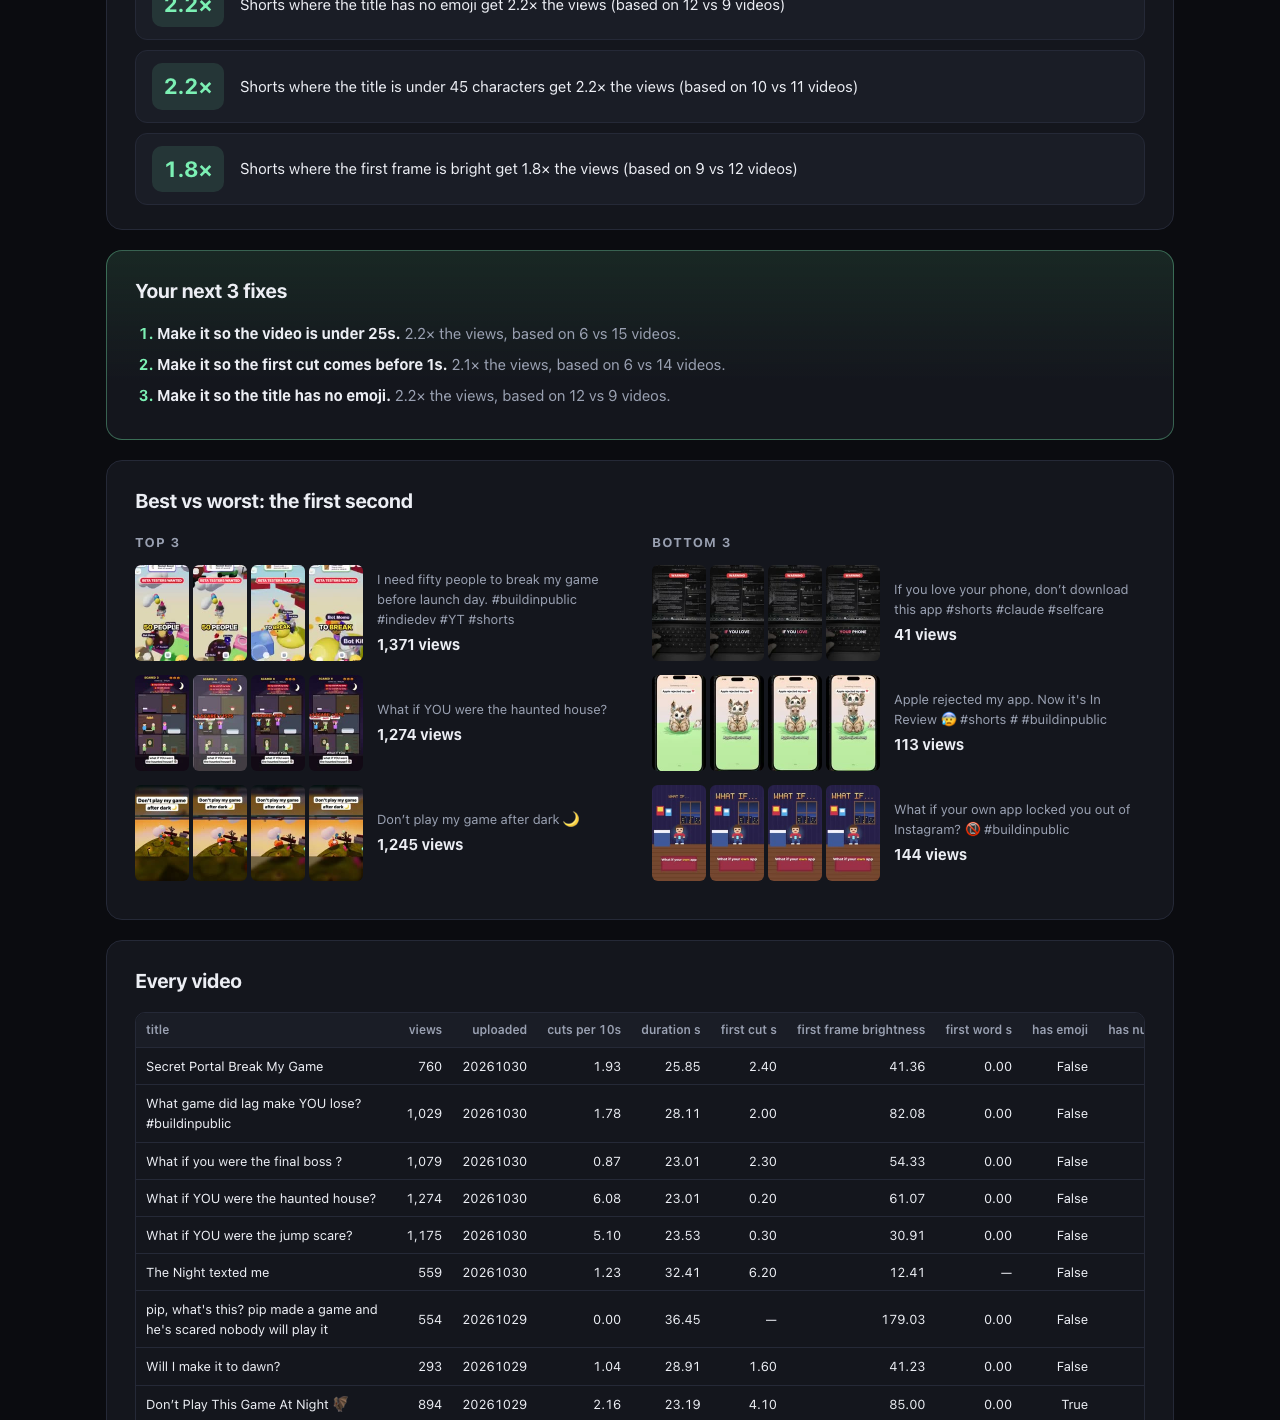
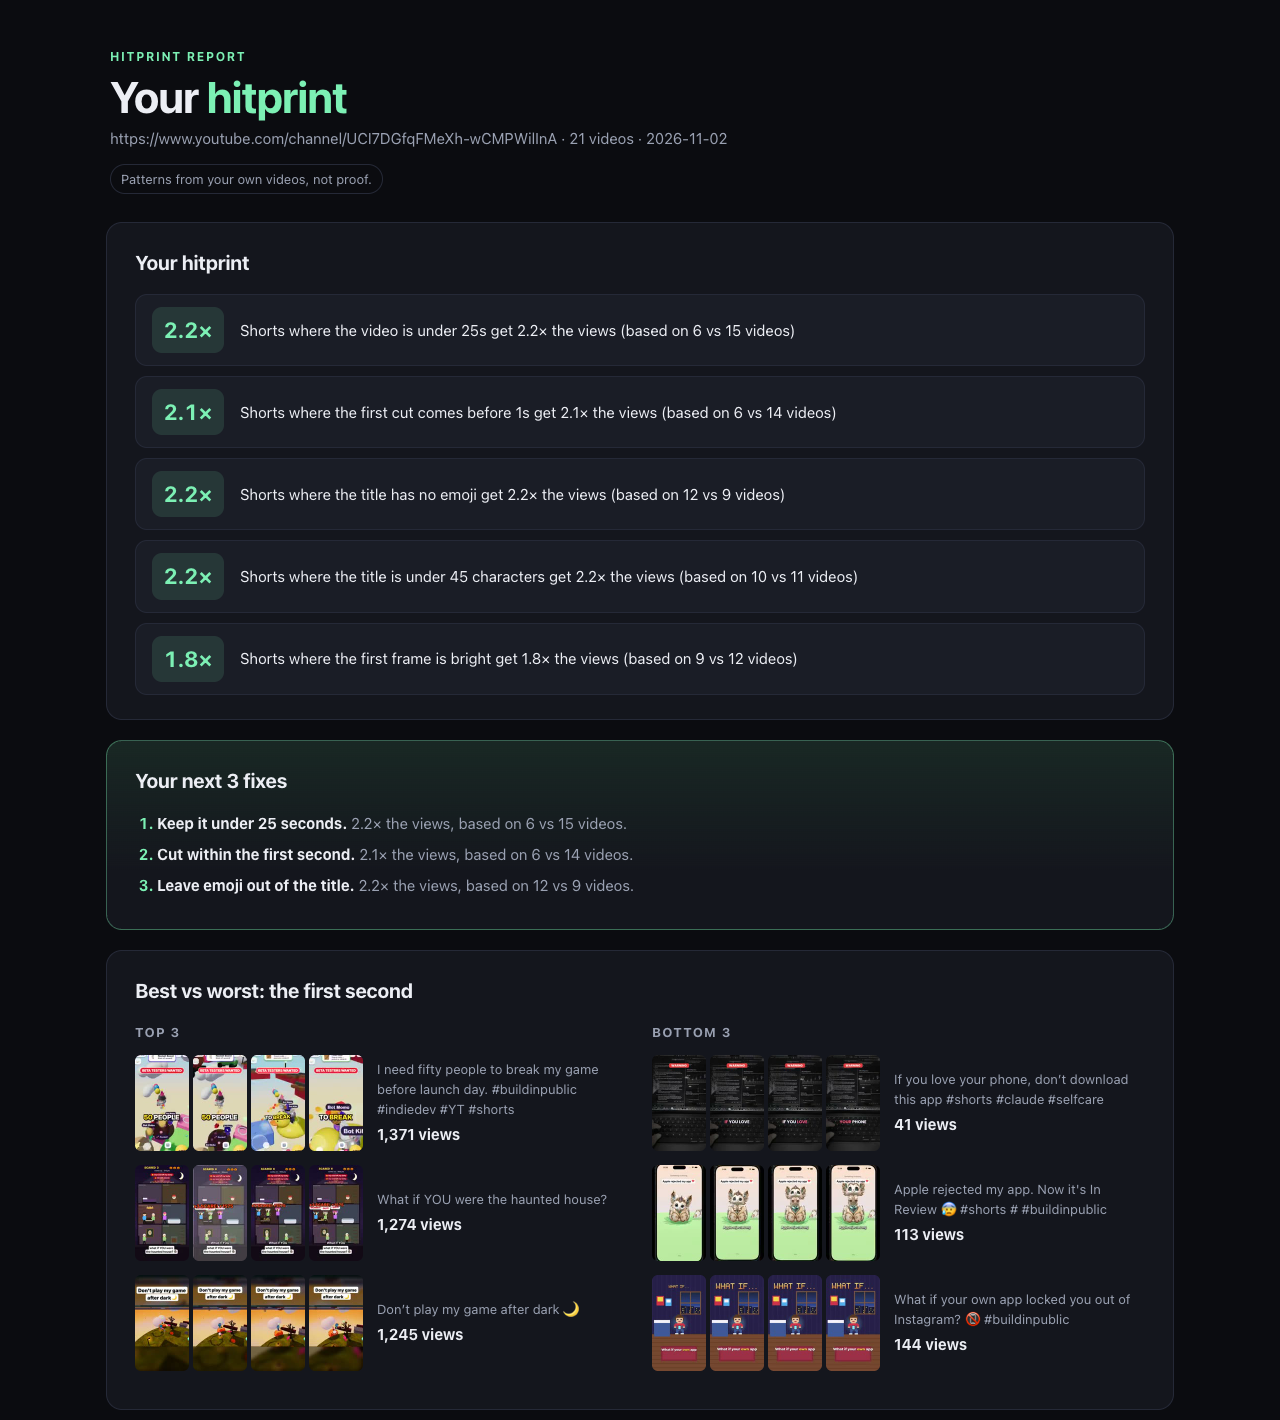
fix: write fixes as direct advice instead of "Make it so ..."
Each rule now carries an advice line ("Keep it under 25 seconds", "Cut within
the first second", "Leave emoji out of the title") used by the report, the CLI
and my-formula.md. docs/report.png is now the top of a fresh report.

diff --git a/hitprint/analyze.py b/hitprint/analyze.py
@@ -7,23 +7,36 @@ from statistics import median
 
 from .models import Rule, Video
 
-# feature -> (test that puts a value in the "yes" group, yes label, no label)
+# feature -> (test that puts a value in the "yes" group, yes label, no label, yes advice, no advice)
 NUMERIC = {
-    "first_cut_s": (lambda x: x < 1.0, "the first cut comes before 1s", "the first cut comes at 1s or later"),
-    "first_word_s": (lambda x: x < 0.5, "the first word comes before 0.5s", "the first word comes at 0.5s or later"),
-    "longest_shot_s": (lambda x: x < 4.0, "no shot lasts 4s or longer", "a shot lasts 4s or longer"),
-    "cuts_per_10s": (lambda x: x >= 3, "there are 3+ cuts per 10s", "there are fewer than 3 cuts per 10s"),
-    "duration_s": (lambda x: x < 25, "the video is under 25s", "the video is 25s or longer"),
-    "title_len": (lambda x: x < 45, "the title is under 45 characters", "the title is 45 characters or longer"),
-    "first_frame_brightness": (lambda x: x >= 80, "the first frame is bright", "the first frame is dark"),
-    "loop_diff": (lambda x: x < 20, "the last frame matches the first (loops)", "the last frame doesn't match the first"),
-    "lufs": (lambda x: -16 <= x <= -12, "loudness is between -16 and -12 LUFS", "loudness is outside -16 to -12 LUFS"),
+    "first_cut_s": (lambda x: x < 1.0, "the first cut comes before 1s", "the first cut comes at 1s or later",
+                    "Cut within the first second", "Hold the first shot for at least a second"),
+    "first_word_s": (lambda x: x < 0.5, "the first word comes before 0.5s", "the first word comes at 0.5s or later",
+                     "Start talking within half a second", "Wait at least half a second before the first word"),
+    "longest_shot_s": (lambda x: x < 4.0, "no shot lasts 4s or longer", "a shot lasts 4s or longer",
+                       "Keep every shot under 4 seconds", "Let at least one shot run 4 seconds or longer"),
+    "cuts_per_10s": (lambda x: x >= 3, "there are 3+ cuts per 10s", "there are fewer than 3 cuts per 10s",
+                     "Cut at least 3 times every 10 seconds", "Cut fewer than 3 times every 10 seconds"),
+    "duration_s": (lambda x: x < 25, "the video is under 25s", "the video is 25s or longer",
+                   "Keep it under 25 seconds", "Let it run 25 seconds or longer"),
+    "title_len": (lambda x: x < 45, "the title is under 45 characters", "the title is 45 characters or longer",
+                  "Keep the title under 45 characters", "Write a title of 45 characters or more"),
+    "first_frame_brightness": (lambda x: x >= 80, "the first frame is bright", "the first frame is dark",
+                               "Open on a bright frame", "Open on a dark frame"),
+    "loop_diff": (lambda x: x < 20, "the last frame matches the first (loops)", "the last frame doesn't match the first",
+                  "End on the same frame you open on, so it loops", "End on a different frame from the one you open on"),
+    "lufs": (lambda x: -16 <= x <= -12, "loudness is between -16 and -12 LUFS", "loudness is outside -16 to -12 LUFS",
+             "Mix the audio to between -16 and -12 LUFS", "Mix the audio outside -16 to -12 LUFS"),
 }
 BOOLEAN = {
-    "has_you": ("the title says \"you\"", "the title doesn't say \"you\""),
-    "is_question": ("the title is a question", "the title isn't a question"),
-    "has_number": ("the title has a number", "the title has no number"),
-    "has_emoji": ("the title has an emoji", "the title has no emoji"),
+    "has_you": ("the title says \"you\"", "the title doesn't say \"you\"",
+                "Say \"you\" in the title", "Leave \"you\" out of the title"),
+    "is_question": ("the title is a question", "the title isn't a question",
+                    "Phrase the title as a question", "Don't phrase the title as a question"),
+    "has_number": ("the title has a number", "the title has no number",
+                   "Put a number in the title", "Leave numbers out of the title"),
+    "has_emoji": ("the title has an emoji", "the title has no emoji",
+                  "Add an emoji to the title", "Leave emoji out of the title"),
 }
 SCORE_NAME = {"views": "views", "stayed_pct": "stayed-to-watch"}
 N_BOOT = 1000
@@ -37,30 +50,32 @@ def _weekday(v: Video):
 
 
 def _splits(videos: list[Video]):
-    """Yield (feature, yes label, no label, fixable, video -> True/False/None)."""
-    for name, (test, yes, no) in NUMERIC.items():
-        yield name, yes, no, True, (
+    """Yield (feature, (yes label, yes advice), (no label, no advice), fixable, video -> True/False/None)."""
+    for name, (test, yes, no, do_yes, do_no) in NUMERIC.items():
+        yield name, (yes, do_yes), (no, do_no), True, (
             lambda v, n=name, t=test: None if v.features.get(n) is None else t(v.features[n]))
-    for name, (yes, no) in BOOLEAN.items():
-        yield name, yes, no, True, (
+    for name, (yes, no, do_yes, do_no) in BOOLEAN.items():
+        yield name, (yes, do_yes), (no, do_no), True, (
             lambda v, n=name: None if v.features.get(n) is None else bool(v.features[n]))
 
     prefixes = Counter(v.features["series_prefix"] for v in videos if v.features.get("series_prefix"))
     if prefixes:
         top, count = prefixes.most_common(1)[0]
         if count >= 3:
-            yield ("series_prefix", f"the title starts with \"{top}\"",
-                   f"the title doesn't start with \"{top}\"", False,
+            yield ("series_prefix", (f"the title starts with \"{top}\"", f"Start the title with \"{top}\""),
+                   (f"the title doesn't start with \"{top}\"", f"Don't start the title with \"{top}\""), False,
                    lambda v: None if v.features.get("series_prefix") is None
                    else v.features["series_prefix"] == top)
 
     hours = [v.features["upload_hour"] for v in videos if v.features.get("upload_hour") is not None]
     if hours:
         h = median(hours)
-        yield ("upload_hour", f"it's posted before {h:g}:00", f"it's posted at {h:g}:00 or later", True,
+        yield ("upload_hour", (f"it's posted before {h:g}:00", f"Post before {h:g}:00"),
+               (f"it's posted at {h:g}:00 or later", f"Post at {h:g}:00 or later"), True,
                lambda v: None if v.features.get("upload_hour") is None else v.features["upload_hour"] < h)
 
-    yield "weekend", "it's posted on a weekend", "it's posted on a weekday", True, _weekday
+    yield ("weekend", ("it's posted on a weekend", "Post on a weekend"),
+           ("it's posted on a weekday", "Post on a weekday"), True, _weekday)
 
 
 def _confidence(better: list[float], worse: list[float], rng: random.Random) -> float:
@@ -91,10 +106,10 @@ def find_rules(videos: list[Video], score: str = "views", min_group: int = 5,
         ratio = med[b] / med[not b]
         if ratio < min_ratio:
             continue
-        label_b, label_w = (yes, no) if b else (no, yes)
+        (label_b, advice), (label_w, _) = (yes, no) if b else (no, yes)
         text = (f"Shorts where {label_b} get {ratio:.1f}× the {SCORE_NAME.get(score, score)} "
                 f"(based on {len(better)} vs {len(worse)} videos)")
         rules.append(Rule(feature, text, label_b, label_w, len(better), len(worse),
-                          med[b], med[not b], ratio, _confidence(better, worse, rng), fixable))
+                          med[b], med[not b], ratio, _confidence(better, worse, rng), fixable, advice))
     rules.sort(key=lambda r: math.log(r.ratio) * r.confidence, reverse=True)
     return rules

diff --git a/hitprint/report.py b/hitprint/report.py
@@ -67,7 +67,7 @@ def _html(videos: list[Video], rules: list[Rule], meta: dict) -> str:
         parts.append(f'<section><h2>Your hitprint</h2><ol class="rules">{items}</ol></section>')
         fixes = [r for r in rules if r.fixable][:3]
         items = "".join(
-            f"<li><strong>Make it so {escape(r.better)}.</strong> "
+            f"<li><strong>{escape(r.advice)}.</strong> "
             f'<span class="muted">{r.ratio:.1f}× the {escape(score)}, based on '
             f"{r.n_better} vs {r.n_worse} videos.</span></li>" for r in fixes)
         parts.append(f"<section class='fixes'><h2>Your next 3 fixes</h2><ol>{items or '<li>None of your patterns are things you can change.</li>'}</ol></section>")
@@ -100,7 +100,7 @@ def _formula(rules: list[Rule], meta: dict) -> str:
     if not rules:
         lines.append(NO_PATTERNS)
     for r in rules:
-        lines.append(f"- Make it so {r.better}. My videos like this get {r.ratio:.1f}× the "
+        lines.append(f"- {r.advice}. My videos like this get {r.ratio:.1f}× the "
                      f"{score} (based on {r.n_better} vs {r.n_worse} videos, "
                      f"{r.confidence:.0%} confidence).")
     lines += ["", NOT_PROOF, ""]

diff --git a/tests/test_report.py b/tests/test_report.py
@@ -14,7 +14,8 @@ def videos(n=12, path=None):
 
 def rule(feature="first_cut_s", fixable=True):
     return Rule(feature, f"Shorts where {feature} is good get 2.1× the views (based on 9 vs 14 videos)",
-                f"{feature} is good", f"{feature} is bad", 9, 14, 2100, 1000, 2.1, 0.97, fixable)
+                f"{feature} is good", f"{feature} is bad", 9, 14, 2100, 1000, 2.1, 0.97, fixable,
+                f"Make {feature} good")
 
 
 def test_outputs_written(tmp_path):
@@ -26,9 +27,10 @@ def test_outputs_written(tmp_path):
     html = out["report"].read_text()
     assert "Your hitprint" in html and "not proof" in html
     assert "Your next 3 fixes" in html and "based on 9 vs 14 videos" in html
+    assert "<strong>Make first_cut_s good.</strong>" in html and "Make it so" not in html
     assert "@cosipai" in html and "12 videos" in html
     md = out["formula"].read_text()
-    assert "first_cut_s is good" in md and "9 vs 14" in md
+    assert "- Make first_cut_s good. My videos" in md and "9 vs 14" in md and "Make it so" not in md
     data = json.loads(out["data"].read_text())
     assert len(data["videos"]) == 12 and data["rules"][0]["ratio"] == 2.1
 

diff --git a/tests/test_analyze.py b/tests/test_analyze.py
@@ -25,6 +25,7 @@ def test_rule_found():
     assert r.median_better == 1000 and r.median_worse == 300
     assert r.confidence == pytest.approx(1.0)
     assert r.fixable is True
+    assert r.advice == "Cut within the first second"
 
 
 def test_min_group():
@@ -68,7 +69,7 @@ def test_series_prefix_not_fixable():
               + [vid(10 + i, 200, series_prefix=f"other {i} x") for i in range(6)])
     (r,) = find_rules(videos)
     assert r.feature == "series_prefix" and r.fixable is False
-    assert "what if you" in r.text
+    assert "what if you" in r.text and r.advice == 'Start the title with "what if you"'
 
 
 def test_weekend_split():
@@ -77,6 +78,7 @@ def test_weekend_split():
               + [vid(10 + i, 250, date=tue) for i in range(6)])
     (r,) = find_rules(videos)
     assert r.feature == "weekend" and "weekend" in r.better and r.fixable
+    assert r.advice == "Post on a weekend"
 
 
 def test_sorted_by_effect_times_confidence():

diff --git a/tests/test_cli.py b/tests/test_cli.py
@@ -33,3 +33,15 @@ def test_studio_flag_switches_score(monkeypatch, tmp_path):
     assert cli.main(["@cosipai", "--studio", "s.csv", "--out", str(tmp_path), "--no-whisper"]) == 0
     assert calls["score"] == "stayed_pct"
     assert (tmp_path / "hitprint-report.html").exists()
+
+
+def test_next_fixes_printed_as_advice(monkeypatch, tmp_path, capsys):
+    from hitprint.models import Rule
+    fake_pipeline(monkeypatch, 12, {})
+    r = Rule("duration_s", "Shorts where the video is under 25s get 2.0× the views (based on 6 vs 6 videos)",
+             "the video is under 25s", "the video is 25s or longer", 6, 6, 1000, 500, 2.0, 0.9, True,
+             "Keep it under 25 seconds")
+    monkeypatch.setattr(cli, "find_rules", lambda videos, score="views": [r])
+    assert cli.main(["@cosipai", "--out", str(tmp_path), "--no-whisper"]) == 0
+    out = capsys.readouterr().out
+    assert "- Keep it under 25 seconds.\n" in out and "Make it so" not in out

diff --git a/hitprint/cli.py b/hitprint/cli.py
@@ -98,7 +98,7 @@ def main(argv: list[str] | None = None) -> int:
     if fixes:
         print("Next fixes:")
         for r in fixes:
-            print(f"- Make it so {r.better}.")
+            print(f"- {r.advice}.")
     for name, path in paths.items():
         print(f"{name}: {path.resolve()}")
     if a.open:

diff --git a/hitprint/models.py b/hitprint/models.py
@@ -28,3 +28,4 @@ class Rule:
     ratio: float
     confidence: float
     fixable: bool
+    advice: str  # the better side as direct advice, e.g. "Keep it under 25 seconds"
